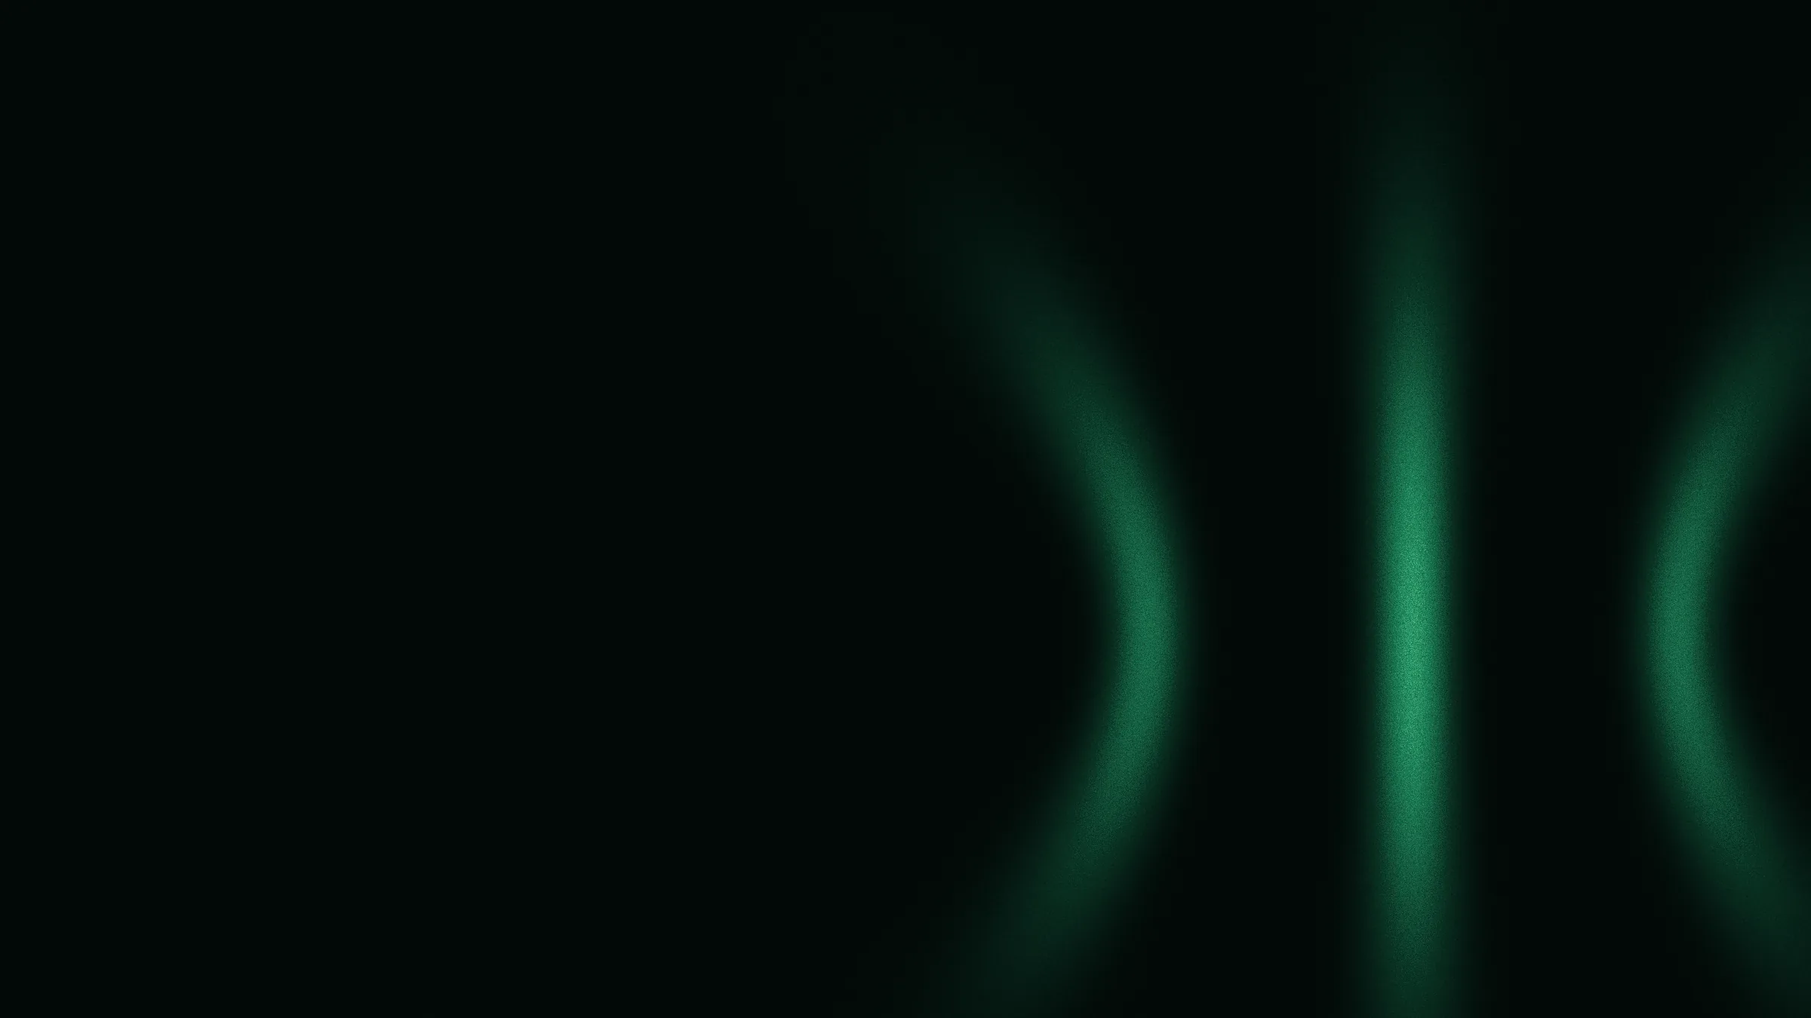
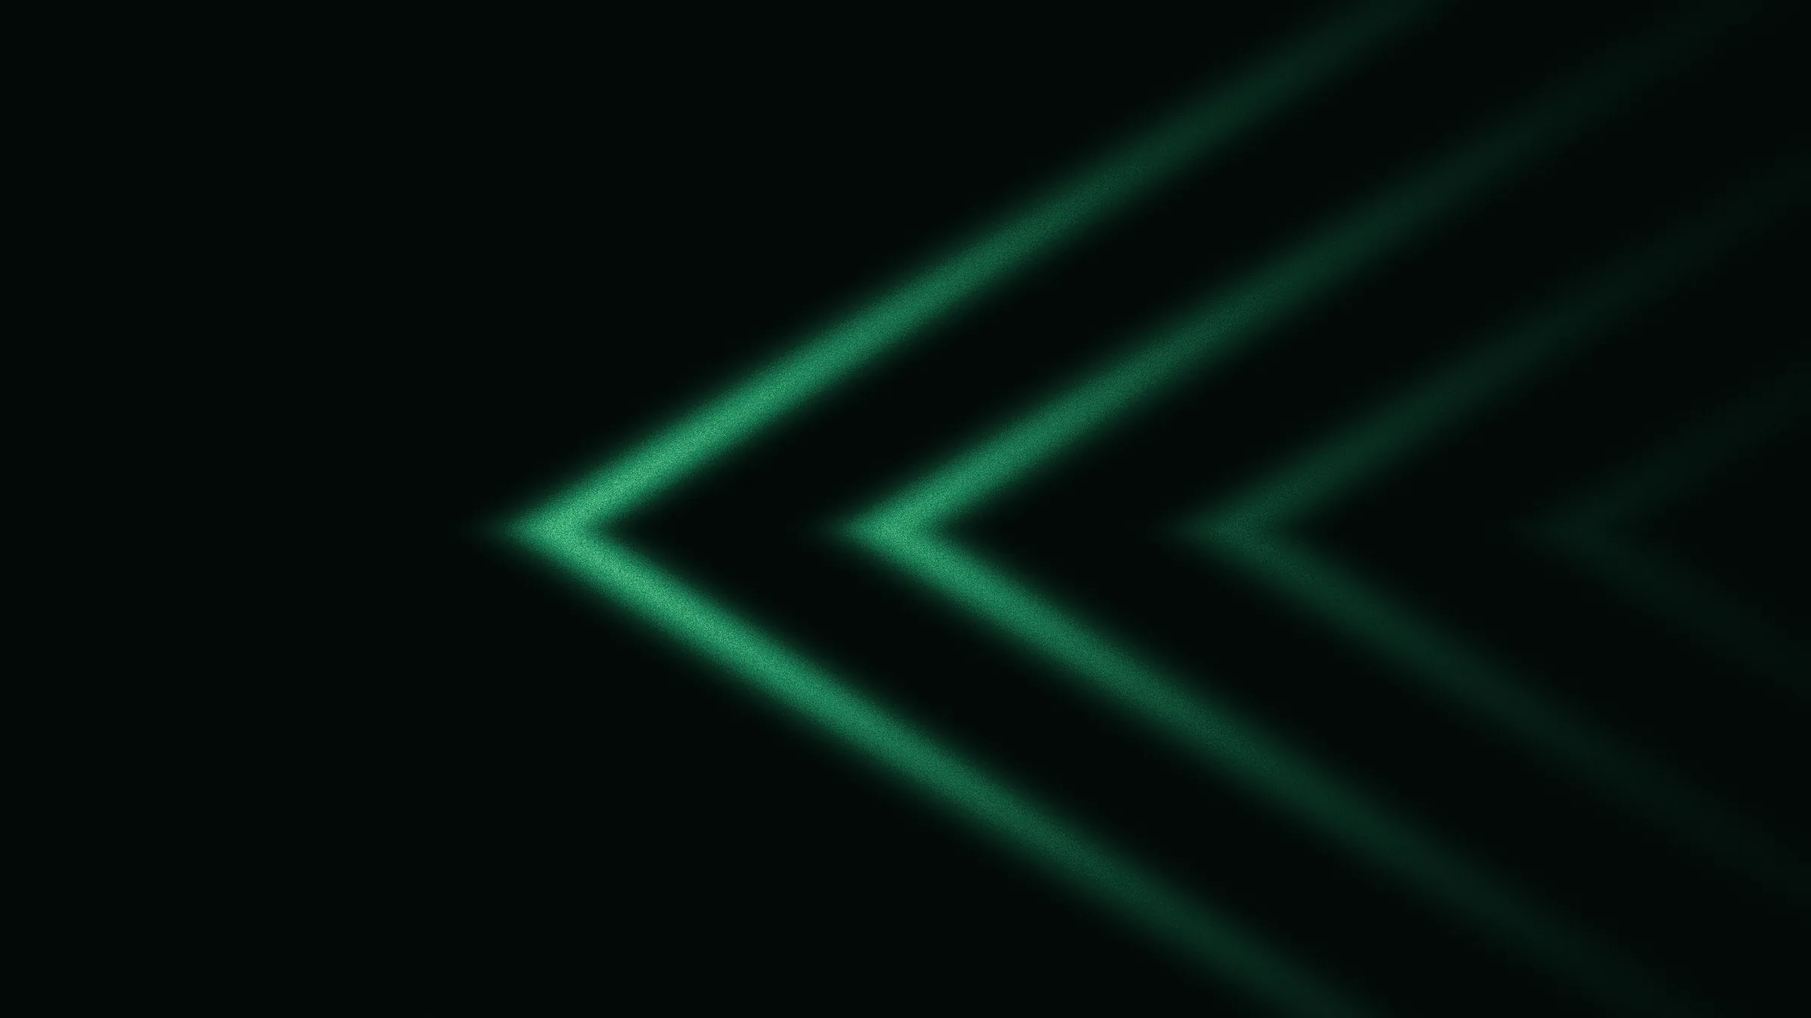
feat(backdrop): Projects · About · Contact 를 서로 다른 파형으로 교체
네 가지 파형을 사이트 전체에 나눠 배치했다. 세 배경이 전부 다른 파원 구성이다.

- About    → PLANE   일자 수평파. 파원이 무한히 멀어 방향이 하나로 정해진 결.
                     원칙을 말하는 자리라 파문보다 가지런한 결이 맞다.
                     약한 기울기를 준다 — 완전 수평이면 벽지가 된다
- Contact  → BOW     V 파. 움직이는 파원이 뒤로 남기는 쐐기.
                     "START A PROJECT" 는 무언가가 출발하는 자리다.
                     꼭짓점 앞은 비운다 — 파면이 아직 도달하지 않은 자리
- Projects → LATTICE 두 직교 평면파의 격자 간섭. 밝은 점은 두 조건이 함께
                     성립한 지점, 어두운 마디는 하나라도 어긋난 지점.
                     계측 격자처럼 읽혀 "무엇이 확인되었는가"의 자리에 맞는다
- 두 점 간섭파(FRINGE)는 홈 마무리 CTA 에 그대로 있다

Services(NODE) · Technology(WAVEFRONT) 는 손대지 않았다.

**형태 어휘 규칙을 개수에서 구조로 바꿨다.** 초판은 "네 가지만 쓴다"였는데
페이지가 늘며 넘겼다. 상한만 올리면 규칙이 사라지므로, 판정 기준을
**파원 구성(source configuration)** 으로 교체했다 — 파원이 몇 개이고 어떻게
놓였는가가 형태를 가른다. 같은 구성의 파라미터 변경은 새 형태가 아니다.
일곱 구성이 파동의 기본형을 거의 덮으므로 더 늘릴 자리는 사실상 없다.
§9 실패 기준 3번도 개수 대신 구조 기준으로 고쳤다.

측정: about 3.8% · contact 5.0% · projects 5.2% — 상한 20% 안.

Changed region(s): [[0.25, 0.0622, 0.8125, 1.0], [0.9062, 0.3111, 1.0, 0.9333], [0.5625, 0.84, 0.7188, 0.9644]]

diff --git a/src/content/media.ts b/src/content/media.ts
@@ -32,14 +32,14 @@ export const mediaManifest = mediaManifestSchema.parse({
   "about-backdrop": {
     kind: "image",
     src: "/media/about-field.webp",
-    alt: "한 점에서 퍼져 나가는 초록빛 동심 파면",
+    alt: "완만하게 기운 초록빛 수평 파동 띠",
     clearance: "self-produced",
   },
   // Contact 페이지 전체 배경 — 홈 CTA 와 같은 간섭 무늬를 넓고 조용하게.
   "contact-backdrop": {
     kind: "image",
     src: "/media/contact-page-field.webp",
-    alt: "넓은 간격으로 퍼진 초록빛 간섭 무늬",
+    alt: "왼쪽 꼭짓점에서 퍼져 나가는 초록빛 V 자 파면",
     clearance: "self-produced",
   },
   // 본문 페이지 전체 배경 3종 — About·Contact 보다 밝고 파동의 중심이 화면 안에 있다.
@@ -52,7 +52,7 @@ export const mediaManifest = mediaManifestSchema.parse({
   "projects-backdrop": {
     kind: "image",
     src: "/media/projects-field.webp",
-    alt: "고리에 감싸인 밝은 초록 코어",
+    alt: "두 직교 평면파가 만드는 초록빛 격자 간섭 무늬",
     clearance: "self-produced",
   },
   "technology-backdrop": {

diff --git a/scripts/gen-fields.py b/scripts/gen-fields.py
@@ -7,8 +7,8 @@
 생성물:
   home-hero-field.webp     겹친 고리 — 토로이달 발광체 (RING)
   home-contact-field.webp  두 파동원의 간섭 무늬 — 쌍곡선 프린지 (FRINGE)
-  about-field.webp         퍼져 나가는 파면 (WAVEFRONT) — About 페이지 배경
-  contact-page-field.webp  FRINGE 의 조용한 변주 — Contact 페이지 배경
+  about-field.webp         일자 수평파 (PLANE) — About 페이지 배경
+  contact-page-field.webp  V 파 · 뱃머리파 (BOW) — Contact 페이지 배경
   services-field.webp      정상파의 마디 (NODE) — Services 페이지 배경
   projects-field.webp      확정된 코어 (RING) — Projects 페이지 배경
   technology-field.webp    중심이 보이는 파면 (WAVEFRONT) — Technology 페이지 배경
@@ -169,52 +169,51 @@ def render_icon(path: pathlib.Path, size: int) -> None:
 
 
 def build_about_field() -> np.ndarray:
-    """퍼져 나가는 파면. 비주얼 컨셉 §4 의 `WAVEFRONT`.
+    """일자 수평파. 파원이 무한히 먼 **평면파**다.
 
-    뜻: **작업 영역의 경계.** 한 점에서 퍼져 나가다 어디까지 닿고 그 너머는 못 닿는다.
-    About 은 역량의 범위를 말하는 자리이므로 이 형태를 쓴다(컨셉 문서 §7 계획).
+    뜻(컨셉 §2): 파면 — 다만 곡률이 사라진 상태. 방향이 하나로 정해져 흔들리지 않는다.
+    About 은 원칙을 말하는 자리이므로, 퍼져 나가는 파문보다 **가지런한 결**이 맞다.
 
-    페이지 전체 배경이므로 **여백이 주인공**이다 — 형태를 오른쪽 아래로 밀고
-    화면의 대부분을 검게 비운다.
+    구현: `cos(k·y)` 로 수평 띠를 만들고, 아주 약한 기울기를 줘 완전한 평행을 피한다.
+    수학적으로 완벽한 평행선은 인쇄물 무늬처럼 보인다.
     """
-    x, y = grid(0.86, 0.78, squash=1.0)
+    x, y = grid(0.55, 0.50, squash=1.0)
 
-    distance = np.sqrt(x**2 + y**2)
-    angle = np.arctan2(y, x)
+    # 아주 약한 기울기 — 완전 수평이면 벽지가 된다.
+    phase = y * 13.0 + x * 0.9
+    bands = (0.5 + 0.5 * np.cos(phase)) ** 3.4
 
-    # 동심 호 — 간격이 밖으로 갈수록 벌어진다(에너지가 퍼지며 옅어지는 모습).
-    arcs = 0.5 + 0.5 * np.cos(distance**0.78 * 26.0)
-    arcs = arcs**3.0  # 밝은 띠를 가늘게
+    # 오른쪽으로 갈수록 또렷해진다. 왼쪽은 카피 자리라 비운다.
+    lateral = np.clip((x + 0.55) / 1.25, 0.0, 1.0) ** 1.6
+    vertical = np.exp(-((y / 1.15) ** 2.6))
 
-    # 부채꼴로 제한 — 사방으로 퍼지면 동심원 과녁이 되어 형태가 죽는다.
-    sector = np.exp(-(((np.arctan2(np.sin(angle - np.deg2rad(215)), np.cos(angle - np.deg2rad(215)))) / 0.95) ** 2))
-
-    # 거리에 따른 감쇠 — 파면은 멀어질수록 약해진다.
-    decay = np.exp(-((distance / 1.30) ** 1.9))
-
-    field = arcs * sector * decay
-    return np.clip(np.clip(field, 0.0, 1.0) ** 1.30 * 0.72, 0.0, 1.0)
+    field = bands * lateral * vertical
+    return np.clip(np.clip(field, 0.0, 1.0) ** 1.25 * 0.80, 0.0, 1.0)
 
 
 def build_contact_page_field() -> np.ndarray:
-    """FRINGE 의 조용한 변주. Contact 페이지 배경.
+    """V 파(뱃머리파). 움직이는 파원이 뒤로 남기는 쐐기 모양 파면.
 
-    홈 마무리 CTA 와 **같은 형태·같은 뜻**이되 파장을 넓히고 밝기를 낮췄다 —
-    같은 말을 작은 목소리로 하는 것이다. 새 어휘를 만들지 않는다(컨셉 문서 §4).
+    뜻(컨셉 §2): 파면 — **시작점이 있고 거기서부터 퍼진다.**
+    "START A PROJECT" 는 무언가가 출발하는 자리이므로 이 형태를 쓴다.
+
+    구현: 꼭짓점에서 `|y|` 와 `x` 의 선형 결합을 위상으로 삼으면 V 자 파면이 나온다.
+    꼭짓점 앞쪽(파원이 아직 지나지 않은 영역)은 비운다.
     """
-    x, y = grid(0.78, 0.62, squash=1.0)
+    x, y = grid(0.30, 0.52, squash=1.0)
 
-    separation = 0.80
-    distance_a = np.sqrt((x + separation) ** 2 + y**2)
-    distance_b = np.sqrt((x - separation) ** 2 + y**2)
+    # 쐐기 각도 — 값이 작을수록 V 가 벌어진다.
+    slope = 0.62
+    phase = (np.abs(y) - x * slope) * 15.0
+    wedge = (0.5 + 0.5 * np.cos(phase)) ** 3.0
 
-    # 파장을 넓게(11 → 6) — 무늬가 성기어 배경으로 물러난다.
-    fringe = 0.5 + 0.5 * np.cos((distance_a - distance_b) * 6.0)
-    fringe = fringe**3.2
+    # 쐐기 안쪽만 남긴다 — 꼭짓점 앞은 파면이 아직 도달하지 않은 자리다.
+    inside = np.clip((x * slope - np.abs(y) + 0.30) / 0.35, 0.0, 1.0)
 
-    envelope = np.exp(-((np.sqrt((x / 1.10) ** 2 + (y / 0.85) ** 2)) ** 2.2))
+    decay = np.exp(-((np.sqrt(x**2 + y**2) / 1.55) ** 2.0))
 
-    return np.clip(np.clip(fringe * envelope, 0.0, 1.0) ** 1.45 * 0.62, 0.0, 1.0)
+    field = wedge * inside * decay
+    return np.clip(np.clip(field, 0.0, 1.0) ** 1.20 * 0.82, 0.0, 1.0)
 
 
 # ── 본문 페이지 배경 3종 ──────────────────────────────────────────────
@@ -244,28 +243,26 @@ def build_services_field() -> np.ndarray:
 
 
 def build_projects_field() -> np.ndarray:
-    """확정된 코어. 비주얼 컨셉 §4 의 `RING` 을 **코어 중심으로** 쓴 것.
+    """두 수평 직교 간섭파. 90° 로 교차하는 평면파 두 개가 만드는 격자.
 
-    뜻: §2 의 **측정 · 확정** — 펼쳐져 있던 가능성이 하나의 값으로 좁혀진다.
-    Projects 는 "무엇이 확인되었는가"를 기록하는 자리라 고리보다 **중심**이 주인공이다.
+    뜻(컨셉 §2): 간섭 — 다만 **두 조건이 동시에 걸리는** 경우다.
+    밝은 점은 두 조건이 함께 성립한 지점, 어두운 마디는 하나라도 어긋난 지점이다.
+    Projects 는 "무엇이 확인되었는가"를 기록하는 자리이므로 **계측 격자**처럼 읽히는 이 형태가 맞다.
 
-    새 어휘가 아니다. 같은 `RING` 에서 강조점을 테두리에서 코어로 옮긴 것이다.
+    구현: `cos(kx) · cos(ky)` 의 절댓값. 두 평면파의 곱이 격자 마디를 만든다.
     """
-    x, y = grid(0.70, 0.40, squash=1.02)
+    x, y = grid(0.66, 0.46, squash=1.0)
+
+    wave_x = np.cos(x * 12.0)
+    wave_y = np.cos(y * 12.0)
+    lattice = np.abs(wave_x * wave_y) ** 1.9
+
+    # 중심에서 멀어질수록 옅어진다 — 격자가 화면을 다 덮으면 방충망이 된다.
     distance = np.sqrt(x**2 + y**2)
-    angle = np.arctan2(y, x)
+    envelope = np.exp(-((distance / 0.95) ** 2.0))
 
-    # 코어 — 확정된 하나의 값.
-    core = np.exp(-((distance / 0.20) ** 1.8))
-
-    # 코어를 감싸는 고리 두 겹 — 좁혀 들어온 흔적.
-    outer = ring(x, y, radius=0.58, width=0.075) * angular_weight(x, y, 200, 0.55)
-    mid = ring(x, y, radius=0.34, width=0.048) * angular_weight(x, y, 40, 0.45)
-
-    field = np.maximum(core, np.maximum(outer * 0.72, mid * 0.62))
-    field *= np.exp(-((distance / 1.35) ** 2.4))
-
-    return np.clip(np.clip(field, 0.0, 1.0) ** 1.20 * 0.90, 0.0, 1.0)
+    field = lattice * envelope
+    return np.clip(np.clip(field, 0.0, 1.0) ** 1.15 * 0.84, 0.0, 1.0)
 
 
 def build_technology_field() -> np.ndarray:

diff --git a/docs/비주얼_컨셉_파동과_간섭.md b/docs/비주얼_컨셉_파동과_간섭.md
@@ -71,7 +71,27 @@
 
 ## 4. 형태 어휘 (form vocabulary)
 
-**네 가지만 쓴다.** 늘리지 않는다 — 어휘가 늘면 언어가 아니라 소음이 된다.
+**어휘를 고르는 기준은 개수가 아니라 파원 구성(source configuration)이다.**
+
+초판에서는 "네 가지만 쓴다"로 정했다. 페이지가 늘면서 그 수를 넘겼는데,
+단순히 상한을 올리면 규칙이 없어진다. 그래서 **세는 규칙을 구조 규칙으로 바꾼다.**
+
+> **파원이 몇 개이고 어떻게 놓였는가** — 그것이 형태를 가른다.
+> 같은 구성에서 파라미터만 바꾼 것은 **새 형태가 아니다**(변주).
+> 물리적으로 다른 구성이면 새 형태이고, §2 대응표에 자리가 있어야 채택한다.
+
+| 파원 구성               | 형태        | 뜻 (§2)                      |
+| ----------------------- | ----------- | ---------------------------- |
+| 단일 파원 · 고리        | `RING`      | 가능성의 장                  |
+| 단일 파원 · 퍼지는 파면 | `WAVEFRONT` | 작업 영역의 경계             |
+| 단일 파원 · 정상파      | `NODE`      | 해가 사라지는 지점           |
+| 무한히 먼 파원 (평면파) | `PLANE`     | 방향이 하나로 정해진 결      |
+| 움직이는 파원 (V 파)    | `BOW`       | 시작점에서 퍼져 나감         |
+| 두 점 파원              | `FRINGE`    | 조건이 겹쳐 결과가 갈림      |
+| 두 직교 평면파          | `LATTICE`   | 두 조건이 동시에 걸리는 격자 |
+
+**일곱 가지가 파동의 기본 구성을 거의 다 덮는다.** 여기서 더 늘릴 자리는 사실상 없다 —
+새 형태를 만들려면 먼저 "이건 어떤 파원 구성인가"에 답해야 하고, 위 표에 없는 구성이어야 한다.
 
 ### ① 고리 — 토로이달 발광체 `RING`
 
@@ -97,7 +117,27 @@
 - 뜻: **작업 영역의 경계.** 여기까지는 닿고 그 너머는 못 닿는다.
 - 구현: 한 점에서 퍼지는 동심 호를 부채꼴로 제한하고 거리에 따라 감쇠시킨다.
   사방으로 퍼뜨리면 동심원 과녁이 되어 형태가 죽는다.
-- 쓰는 곳: **About 페이지 전체 배경** — 역량의 범위를 말하는 자리.
+- 쓰는 곳: **Technology 페이지 배경** — 발원점을 화면 안에 두어 중심이 보인다.
+
+### ⑤ 평면파 — 일자 수평파 `PLANE` ✅
+
+- 뜻: 파면에서 **곡률이 사라진 상태.** 파원이 무한히 멀어 방향이 하나로 정해진다.
+- 구현: `cos(k·y)` 로 수평 띠. **아주 약한 기울기를 준다** — 완전한 평행선은 인쇄물 무늬로 보인다.
+- 쓰는 곳: **About 페이지 배경** — 원칙을 말하는 자리라 파문보다 가지런한 결이 맞다.
+
+### ⑥ 뱃머리파 — V 파 `BOW` ✅
+
+- 뜻: **시작점이 있고 거기서부터 퍼진다.** 움직이는 파원이 뒤로 남기는 쐐기.
+- 구현: 꼭짓점에서 `|y| − x·기울기` 를 위상으로. 꼭짓점 **앞쪽은 비운다** —
+  파원이 아직 지나지 않은 자리다.
+- 쓰는 곳: **Contact 페이지 배경** — "START A PROJECT", 무언가가 출발하는 자리.
+
+### ⑦ 격자 간섭 — 두 직교 평면파 `LATTICE` ✅
+
+- 뜻: **두 조건이 동시에 걸리는** 간섭. 밝은 점은 둘 다 성립한 지점,
+  어두운 마디는 하나라도 어긋난 지점이다.
+- 구현: `|cos(kx) · cos(ky)|`. 봉투로 감싸지 않으면 화면을 덮어 방충망이 된다.
+- 쓰는 곳: **Projects 페이지 배경** — 계측 격자처럼 읽힌다. "무엇이 확인되었는가"의 자리.
 
 > 네 형태 모두 **정지 이미지**다. 움직이지 않아도 뜻이 전달되어야 한다.
 > 스크롤 리빌(페이드 인) 외의 모션을 붙이지 않는다.
@@ -128,10 +168,10 @@
 
 | 자산               | 평균 휘도 | 밝은 화소 |
 | ------------------ | --------- | --------- |
-| about-field        | 10.8      | 1.4%      |
+| about-field        | 12.1      | 3.8%      |
 | technology-field   | 13.6      | 3.5%      |
-| contact-page-field | 13.0      | 4.3%      |
-| projects-field     | 13.7      | 5.1%      |
+| contact-page-field | 14.1      | 5.0%      |
+| projects-field     | 16.0      | 5.2%      |
 | services-field     | 19.6      | 8.1%      |
 
 > `services-field` 는 처음에 **26.4%** 로 이 상한을 넘겼다(§9 실패 기준 2번).
@@ -167,10 +207,10 @@
 | 홈 히어로                       | `RING`      | ✅ 적용                                   |
 | 파비콘 · 앱 아이콘              | `RING`      | ✅ 적용 (작은 크기용 재작도)              |
 | 홈 마무리 CTA                   | `FRINGE`    | ✅ 적용                                   |
-| About 페이지 배경               | `WAVEFRONT` | ✅ 적용 (발원점 화면 밖 — 가장 조용하게)  |
-| Contact 페이지 배경             | `FRINGE`    | ✅ 적용 (넓고 조용한 변주)                |
+| About 페이지 배경               | `PLANE`     | ✅ 적용 (일자 수평파)                     |
+| Contact 페이지 배경             | `BOW`       | ✅ 적용 (V 파)                            |
 | Services 페이지 배경            | `NODE`      | ✅ 적용 (해가 사라지는 지점)              |
-| Projects 페이지 배경            | `RING`      | ✅ 적용 (코어 강조 — 확정된 값)           |
+| Projects 페이지 배경            | `LATTICE`   | ✅ 적용 (두 직교 평면파)                  |
 | Technology 페이지 배경          | `WAVEFRONT` | ✅ 적용 (발원점 화면 안)                  |
 | **Projects 케이스 스터디 슬롯** | —           | **형태 금지.** 실제 결과물만 (디자인 §14) |
 
@@ -239,7 +279,10 @@ python3 scripts/gen-concept.py --form burst --seed 41 --teeth 220
 
 1. 방문자가 형태를 보고 **"예쁘다" 외에 아무 말도 못 한다** → 근거 없는 장식이 됐다.
 2. 밝은 화소가 20% 를 넘어 **텍스트보다 배경이 먼저 읽힌다** → §2 위반.
-3. 형태가 5종 이상으로 늘었다 → 어휘가 아니라 소음.
+3. **§4 표에 없는 파원 구성**의 형태가 생겼다 → 어휘가 아니라 소음.
+   (초판은 "5종 이상"이라는 개수 기준이었다. 페이지가 늘며 그 수를 넘겼고,
+   상한만 올리면 규칙이 사라지므로 **구조 기준으로 바꿨다.** 개수가 아니라
+   "파원 구성이 물리적으로 다른가"가 판정 기준이다.)
 4. 카피에 "양자"·"파동" 같은 물리 용어가 등장한다 → 은유가 주장으로 넘어갔다.
 5. 실제 시뮬레이션 영상이 준비됐는데도 추상 형태를 히어로에 유지하고 있다 → **§14 위반**. 실물이 있으면 실물이 이긴다.
 

diff --git a/scripts/자산_맵.md b/scripts/자산_맵.md
@@ -40,16 +40,16 @@
 
 ### 형태별 핵심 파라미터
 
-| 함수                       | 값                                                                                           | 의도                                                       |
-| -------------------------- | -------------------------------------------------------------------------------------------- | ---------------------------------------------------------- |
-| `build_hero_field`         | 중심 `(0.64, 0.33)` · 고리 `r=0.66 w=0.150` + `r=0.30 w=0.110` · 감마 `1.25` · 게인 `0.95`   | 우상단 배치 — 좌하단 카피 자리를 비운다                    |
-| `build_contact_field`      | 중심 `(0.74, 0.50)` · 파동원 간격 `0.62` · 파수 `11.0` · 감마 `1.35`                         | 우측 배치 — 좌측 1/3 을 검게 비운다                        |
-| `build_about_field`        | 중심 `(0.86, 0.78)` · 파수 `26.0` (거리 `^0.78`) · 부채꼴 `215°` · 감마 `1.30` · 게인 `0.72` | 우하단 부채꼴 — 페이지 전체 배경이라 더 어둡게             |
-| `build_contact_page_field` | 중심 `(0.78, 0.62)` · 간격 `0.80` · 파수 `6.0` · 감마 `1.45` · 게인 `0.62`                   | 홈보다 파장을 넓히고 밝기를 낮춤 — 같은 말을 작은 목소리로 |
-| `build_services_field`     | 중심 `(0.72, 0.44)` · 정상파 파수 `15.0` · 발광 `/0.74` · 감마 `1.60` · 게인 `0.78`          | 밝은 장에 **어두운 마디**를 새긴다 — 마디가 주인공         |
-| `build_projects_field`     | 중심 `(0.70, 0.40)` · 코어 `/0.20` · 고리 `r=0.58, 0.34` · 감마 `1.20` · 게인 `0.90`         | 테두리가 아니라 **코어**가 주인공 — 확정된 하나의 값       |
-| `build_technology_field`   | 중심 `(0.68, 0.46)` · 파수 `22.0` · 부채꼴 `190°/1.35` · 감마 `1.18` · 게인 `0.88`           | About 과 달리 **발원점을 화면 안에** 둔다                  |
-| `build_icon_field`         | 고리 `r=0.62 w=0.230` + `r=0.27 w=0.150` · 감마 `0.85` · 블러 `size/180`                     | 16px 에서 읽히도록 두껍고 대비 강하게                      |
+| 함수                       | 값                                                                                         | 의도                                                 |
+| -------------------------- | ------------------------------------------------------------------------------------------ | ---------------------------------------------------- |
+| `build_hero_field`         | 중심 `(0.64, 0.33)` · 고리 `r=0.66 w=0.150` + `r=0.30 w=0.110` · 감마 `1.25` · 게인 `0.95` | 우상단 배치 — 좌하단 카피 자리를 비운다              |
+| `build_contact_field`      | 중심 `(0.74, 0.50)` · 파동원 간격 `0.62` · 파수 `11.0` · 감마 `1.35`                       | 우측 배치 — 좌측 1/3 을 검게 비운다                  |
+| `build_about_field`        | 위상 `y·13.0 + x·0.9` · 감마 `1.25` · 게인 `0.80`                                          | 약한 기울기 — 완전 수평이면 벽지가 된다              |
+| `build_contact_page_field` | 꼭짓점 `(0.30, 0.52)` · 기울기 `0.62` · 파수 `15.0` · 감마 `1.20` · 게인 `0.82`            | 꼭짓점 앞은 비운다 — 파면이 아직 도달하지 않은 자리  |
+| `build_services_field`     | 중심 `(0.72, 0.44)` · 정상파 파수 `15.0` · 발광 `/0.74` · 감마 `1.60` · 게인 `0.78`        | 밝은 장에 **어두운 마디**를 새긴다 — 마디가 주인공   |
+| `build_projects_field`     | 중심 `(0.70, 0.40)` · 코어 `/0.20` · 고리 `r=0.58, 0.34` · 감마 `1.20` · 게인 `0.90`       | 테두리가 아니라 **코어**가 주인공 — 확정된 하나의 값 |
+| `build_technology_field`   | 중심 `(0.68, 0.46)` · 파수 `22.0` · 부채꼴 `190°/1.35` · 감마 `1.18` · 게인 `0.88`         | About 과 달리 **발원점을 화면 안에** 둔다            |
+| `build_icon_field`         | 고리 `r=0.62 w=0.230` + `r=0.27 w=0.150` · 감마 `0.85` · 블러 `size/180`                   | 16px 에서 읽히도록 두껍고 대비 강하게                |
 
 ### 공통 처리
 
